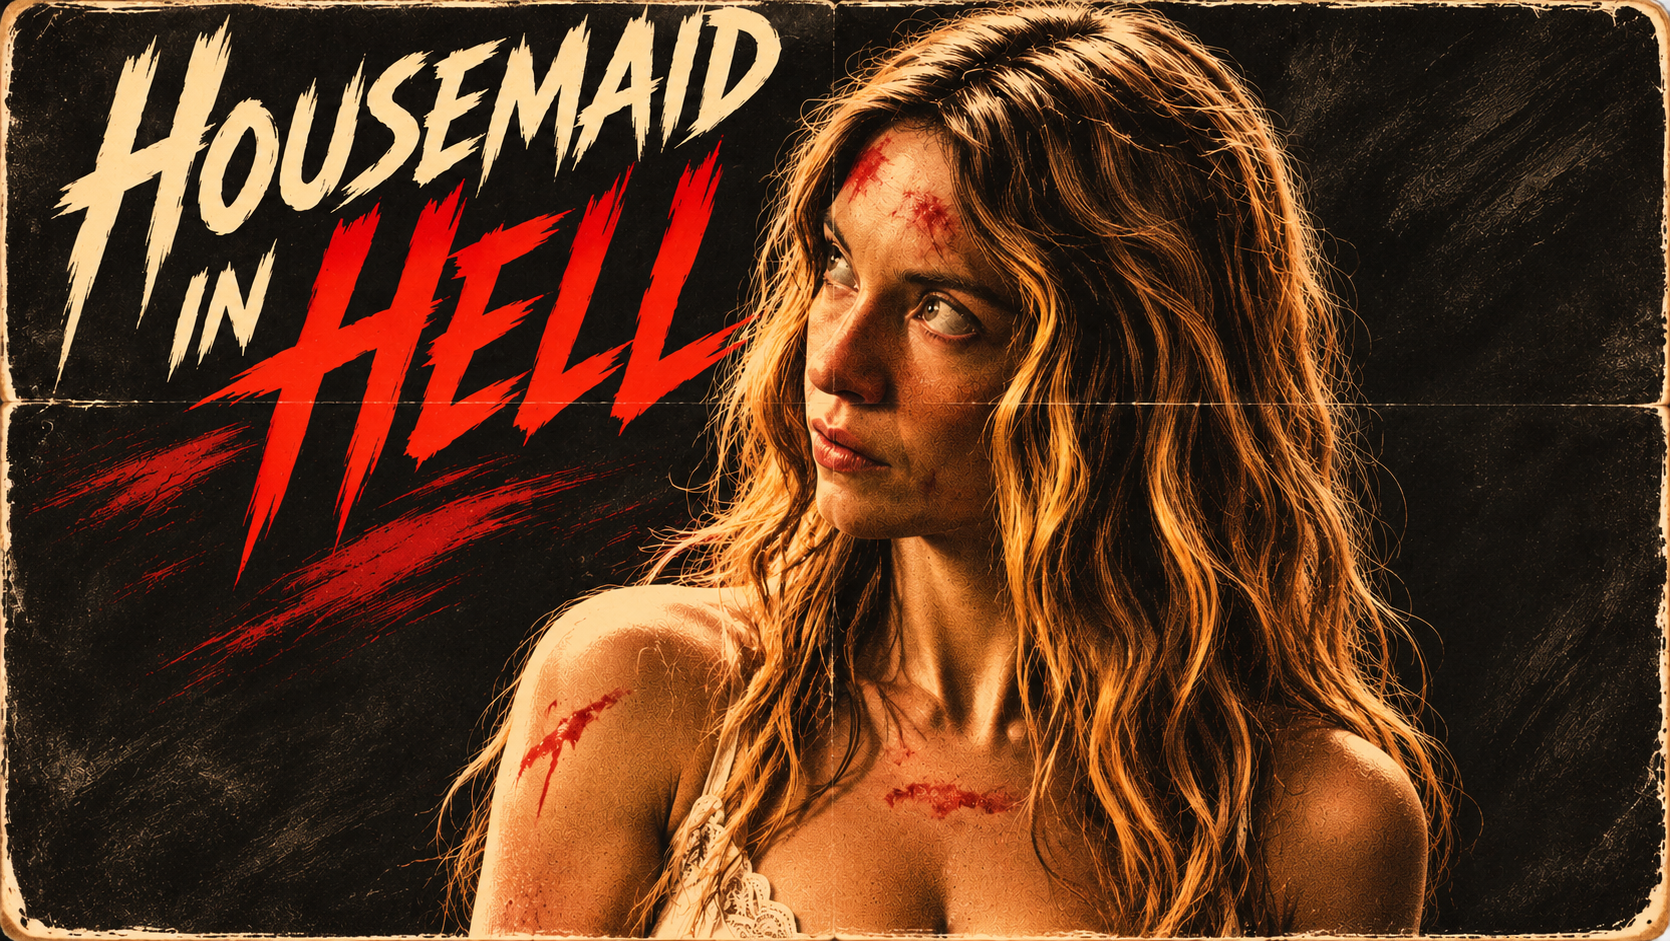
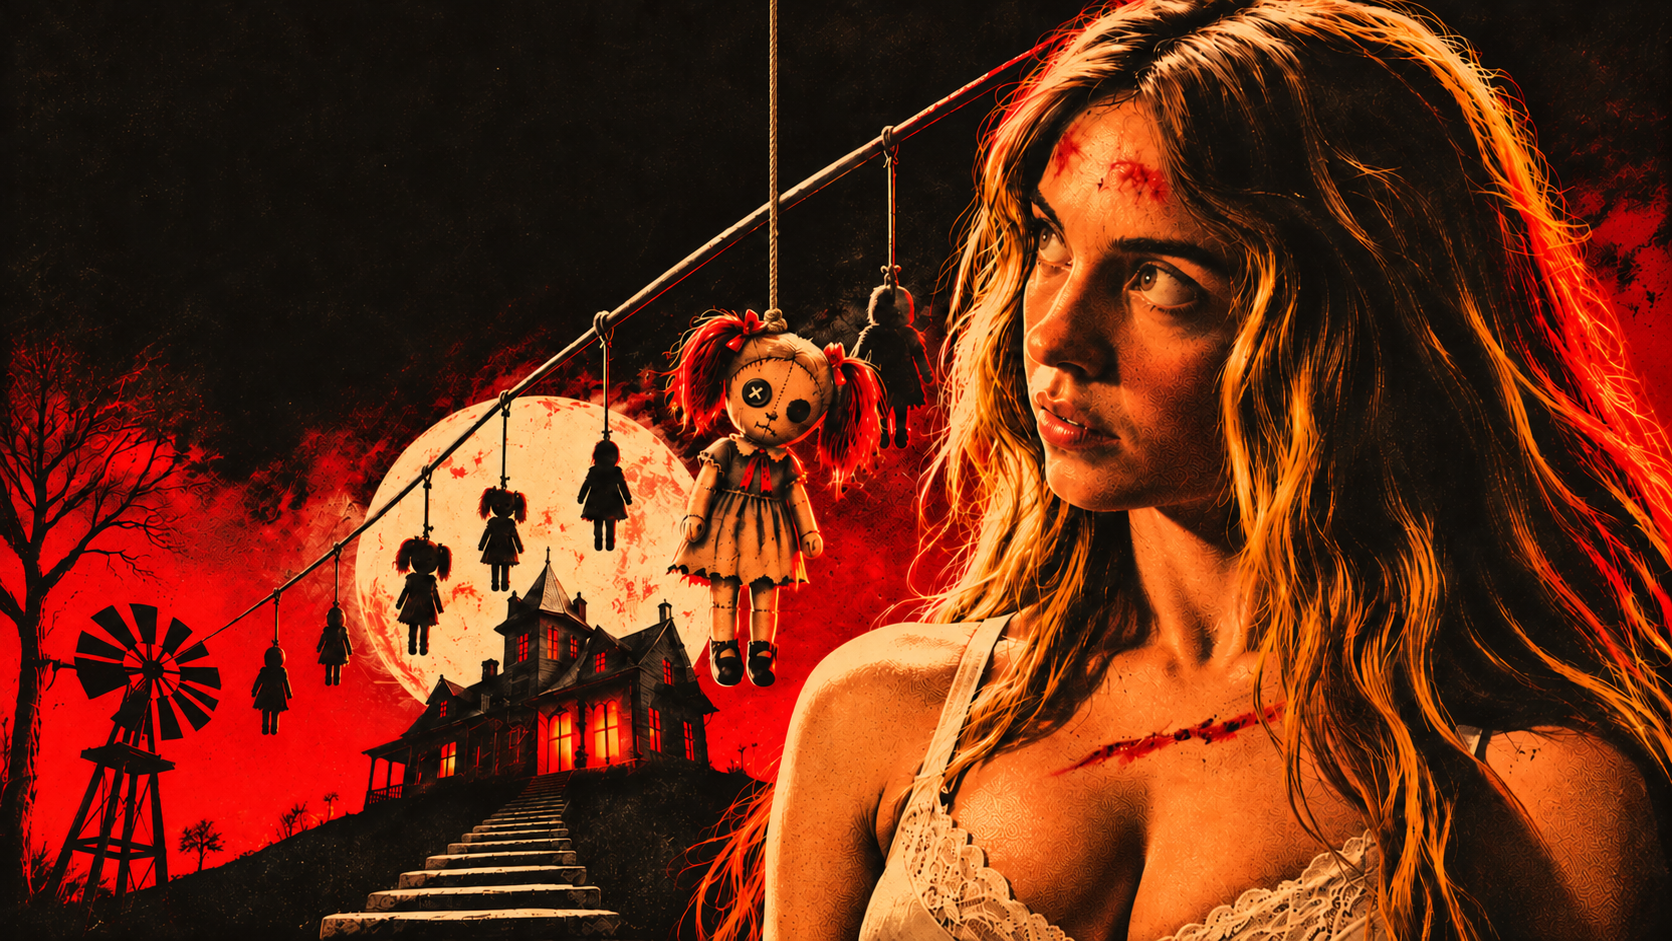
Add files via upload

diff --git a/game.html b/game.html
@@ -4,7 +4,7 @@
   <meta charset="UTF-8" />
   <meta name="viewport" content="width=device-width, initial-scale=1.0, user-scalable=no, viewport-fit=cover" />
   <meta name="color-scheme" content="only light" />
-  <title>Room Word Hunt</title>
+  <title>Housemaid in Hell</title>
   <link rel="preload" as="image" href="./home.png" />
   <style>
     @font-face {
@@ -1044,12 +1044,16 @@
     #menuShell[hidden], .menu-page[hidden] { display: none !important; }
     html.menu-open, html.menu-open body, #menuShell { touch-action: pan-y; }
     #homeBackdrop { position: absolute; inset: 0; overflow: hidden; pointer-events: none; }
+    #homeBackdrop::after { content: ""; position: absolute; inset: 0; background: linear-gradient(180deg, #0005, #000a 33%, #000a 70%, #0005); opacity: 0; transition: opacity 220ms ease; }
     #homePoster { position: absolute; top: 0; left: 0; height: 100%; width: auto; min-width: 100%; object-fit: cover; transform: translate3d(var(--home-pan-x, 0px), 0, 0); }
-    #menuShell[data-page="intro"] #homePoster, #menuShell[data-page="panning"][data-pan-target="intro"] #homePoster { transform: translate3d(0, 0, 0); }
+    #menuShell[data-poster-position="left"] #homePoster { transform: translate3d(0, 0, 0); }
+    #menuShell[data-poster-position="center"] #homePoster { transform: translate3d(calc(var(--home-pan-x, 0px) / 2), 0, 0); }
+    #menuShell[data-poster-position="center"] #homeBackdrop::after { opacity: 1; }
     #menuShell[data-page="panning"] #homePoster { transition: transform var(--home-pan-ms, 650ms) cubic-bezier(.16,.72,.22,1); }
-    #menuShell[data-page="settings"] #homeBackdrop, #menuShell[data-page="story"] #homeBackdrop, #menuShell[data-page="how"] #homeBackdrop { visibility: hidden; }
     .menu-page { width: min(88%, 510px); padding: 72px 12px 36px; text-align: center; z-index: 1; }
-    #introPage { position: absolute; inset: 0; width: 100%; display: flex; justify-content: center; align-items: flex-end; padding: 0 0 max(9%, calc(env(safe-area-inset-bottom) + 12px)); }
+    #introPage { position: absolute; inset: 0; width: 100%; display: flex; flex-direction: column; justify-content: flex-end; align-items: center; padding: 0 5% max(17%, calc(env(safe-area-inset-bottom) + 40px)); }
+    #homeIntroTitle { position: absolute; top: max(12%, calc(env(safe-area-inset-top) + 12px)); left: 9%; right: 9%; margin: 0; max-width: 82%; font-family: "Dudu Calligraphy", "Game Arabic", cursive; font-size: clamp(28px, min(11vw, calc(var(--view-unit) * 7.1)), 68px); font-weight: 400; line-height: 1.05; text-transform: uppercase; text-wrap: balance; text-shadow: 0 1px 3px #000, 0 2px 14px #000; }
+    .intro-title-word { display: inline-block; white-space: nowrap; }
     #homeStartButton { font-size: clamp(30px, calc(var(--view-unit) * 4.4), 44px); }
     /* Keep the menu at its original vertical position after removing the heading. */
     #homePage { padding-top: calc(30px + clamp(44px, calc(var(--view-unit) * 8.3), 84px) * 1.96 + var(--home-menu-gap, 26px)); padding-bottom: 30px; }
@@ -1057,14 +1061,14 @@
     .home-actions, .language-choices { display: flex; flex-direction: column; align-items: center; gap: 9px; }
     .menu-button, .home-back, .paper-button { appearance: none; -webkit-appearance: none; border: 0; background: transparent; color: inherit; -webkit-text-fill-color: currentColor; font: inherit; font-weight: 400; cursor: pointer; animation: readyJitter .4s steps(1, end) infinite; touch-action: manipulation; }
     .menu-button { min-height: 44px; padding: 7px 18px; font-size: clamp(24px, calc(var(--view-unit) * 3.7), 36px); line-height: 1.12; }
-    .home-actions > button, .paper-actions > button { animation-delay: calc(var(--jitter-phase, 0) * var(--menu-jitter-stagger, 75ms)); }
-    .home-actions > :nth-child(2), .paper-actions > :nth-child(2) { --jitter-phase: -1; }
+    .home-actions > button, .language-choices > button, .paper-actions > button { animation-delay: calc(var(--jitter-phase, 0) * var(--menu-jitter-stagger, 75ms)); }
+    .home-actions > :nth-child(2), .language-choices > :nth-child(2), .paper-actions > :nth-child(2) { --jitter-phase: -1; }
     .home-actions > :nth-child(3) { --jitter-phase: -2; }
     .home-actions > :nth-child(4) { --jitter-phase: -3; }
     .home-actions > :nth-child(5) { --jitter-phase: -4; }
     .menu-button:disabled { opacity: .45; cursor: default; }
     .menu-button[aria-pressed="true"] { text-decoration: underline; text-underline-offset: .2em; }
-    .menu-back, .home-back { position: absolute; left: max(14px, env(safe-area-inset-left)); top: max(14px, env(safe-area-inset-top)); width: 50px; height: 50px; padding: 10px; color: var(--letter-beige); z-index: 2; }
+    .menu-back, .home-back { position: absolute; left: max(14px, env(safe-area-inset-left)); top: max(14px, env(safe-area-inset-top)); width: 50px; height: 50px; padding: 10px; color: var(--letter-beige); z-index: 2; animation-duration: .487s; animation-delay: -.055s; }
     .menu-back svg, .home-back svg { display: block; width: 100%; height: 100%; fill: none; stroke: currentColor; stroke-width: 1.8; stroke-linecap: round; stroke-linejoin: round; }
     .menu-body { margin: 0; font-size: clamp(20px, calc(var(--view-unit) * 3.2), 28px); line-height: 1.38; text-align: start; }
     #homeNotice { min-height: 1.4em; margin: 14px 0 0; font-size: 18px; }
@@ -1209,9 +1213,10 @@
         <p id="levelLoadDetails" hidden></p>
       </div>
     </div>
-    <section id="menuShell" aria-label="Housemaid in Hell" data-language="en" data-page="intro">
+    <section id="menuShell" aria-label="Housemaid in Hell" data-language="en" data-page="intro" data-poster-position="left">
       <div id="homeBackdrop" aria-hidden="true"><img id="homePoster" src="./home.png" alt="" draggable="false" fetchpriority="high" /></div>
       <div id="introPage" class="menu-page">
+        <h1 id="homeIntroTitle" dir="auto">Housemaid in Hell</h1>
         <button id="homeStartButton" class="menu-button" type="button">START</button>
       </div>
       <div id="homePage" class="menu-page" hidden>
@@ -1539,7 +1544,7 @@
     "evadeBoundaryTurnMs": 900
   },
   "anomaly": {
-    "enabled": true,
+    "enabled": false,
     "afterWords": 1,
     "riddleAfterWords": 0,
     "checkMs": 15000,
@@ -1660,7 +1665,7 @@
     "hint": "HINT",
     "puzzleTitle": "Riddle",
     "puzzleTitleAr": "لغز",
-    "hunt": "HUNT",
+    "hunt": "CASE",
     "exit": "EXIT",
     "puzzleLevelFormat": "{title} #{number}",
     "prepareMedia": "TAP",
@@ -1859,8 +1864,12 @@
     const portraitFrame = document.getElementById("portraitFrame");
     const menuShell = document.getElementById("menuShell");
     const homePoster = document.getElementById("homePoster");
+    const MENU_ROUTES = { intro: ["home"], home: ["intro", "settings", "story", "how"], settings: ["home"], story: ["home"], how: ["home"] };
+    const MENU_PAGES = Object.keys(MENU_ROUTES);
     let menuPage = "intro";
     let homePanTimer = null;
+    let menuSwipe = null;
+    let suppressMenuClick = false;
     let homeBootPromise = Promise.resolve();
     let homePlayPending = null;
     let menuActionPending = null;
@@ -6578,6 +6587,15 @@
       finally { event.target.value = ""; }
     });
 
+    function configureLoadingLetterJitter(letter, index) {
+      const amount = CONFIG.ui.loadingJitterPx;
+      for (let n = 1; n <= 3; n++) {
+        letter.style.setProperty(`--lx${n}`, `${Math.random() * amount * 2 - amount}px`);
+        letter.style.setProperty(`--ly${n}`, `${Math.random() * amount * 2 - amount}px`);
+      }
+      letter.style.animationDelay = `${index * CONFIG.ui.loadingLetterDelayMs}ms`;
+    }
+
     function configureGamePresentation() {
       const style = document.documentElement.style;
       const cssSettings = {
@@ -6650,14 +6668,9 @@
       }
       batterySlots.forEach((slot, index) => slot.setAttribute("fill", CONFIG.battery.slotColors[Math.min(CONFIG.battery.slotColors.length - 1,
         Math.floor(index / BATTERY_SLOT_COUNT * CONFIG.battery.slotColors.length))]));
-      // Loader jitter has its own settings rather than changing gameplay letters.
-      document.querySelectorAll(".loading-letter").forEach((letter, index) => {
-        for (let n = 1; n <= 3; n++) {
-          letter.style.setProperty(`--lx${n}`, `${Math.random() * CONFIG.ui.loadingJitterPx * 2 - CONFIG.ui.loadingJitterPx}px`);
-          letter.style.setProperty(`--ly${n}`, `${Math.random() * CONFIG.ui.loadingJitterPx * 2 - CONFIG.ui.loadingJitterPx}px`);
-        }
-        letter.style.animationDelay = `${index * CONFIG.ui.loadingLetterDelayMs}ms`;
-      });
+      // Keep independent jitter for the loader and the opening title.
+      document.querySelectorAll("#loadingWord .loading-letter").forEach(configureLoadingLetterJitter);
+      document.querySelectorAll("#homeIntroTitle .loading-letter").forEach(configureLoadingLetterJitter);
       document.fonts?.ready.then(requestViewportLayout);
     }
 
@@ -6680,6 +6693,30 @@
 
     function menuText() { return CONFIG.menu[CONFIG.language.code] || CONFIG.menu.en; }
 
+    function renderHomeIntroTitle(title) {
+      const heading = document.getElementById("homeIntroTitle");
+      if (heading.dataset.title === title) return;
+      heading.dataset.title = title;
+      heading.setAttribute("aria-label", title);
+      const contents = document.createDocumentFragment();
+      let letterIndex = 0;
+      for (const [index, word] of title.trim().split(/\s+/).entries()) {
+        if (index) contents.append(document.createTextNode(" "));
+        const group = document.createElement("span");
+        group.className = "intro-title-word";
+        group.setAttribute("aria-hidden", "true");
+        for (const character of word) {
+          const letter = document.createElement("span");
+          letter.className = "loading-letter";
+          letter.textContent = character;
+          configureLoadingLetterJitter(letter, letterIndex++);
+          group.append(letter);
+        }
+        contents.append(group);
+      }
+      heading.replaceChildren(contents);
+    }
+
     function updateMenuCopy() {
       const text = menuText();
       document.title = CONFIG.menu.title;
@@ -6687,6 +6724,7 @@
       menuShell.dataset.language = CONFIG.language.code;
       menuShell.lang = CONFIG.language.code;
       menuShell.setAttribute("aria-label", CONFIG.menu.title);
+      renderHomeIntroTitle(CONFIG.menu.title);
       const labels = { homeStartButton: text.start, homePlayButton: text.play, homeSettingsButton: text.settings, homeStoryButton: text.story,
         homeHowButton: text.how, homeClearButton: text.clear, settingsTitle: text.settings,
         storyTitle: text.story, howTitle: text.how, storyCopy: text.storyText, howCopy: text.howText,
@@ -6712,15 +6750,17 @@
     }
 
     function showMenuPage(page = "home", focus = false) {
-      const pages = ["intro", "home", "settings", "story", "how"];
-      if (page !== "panning" && !pages.includes(page)) page = "home";
+      if (page !== "panning" && !MENU_PAGES.includes(page)) page = "home";
+      menuSwipe = null;
       menuPage = page;
       document.documentElement.classList.add("menu-open");
       menuShell.hidden = false;
       menuShell.dataset.page = page;
+      const destination = page === "panning" ? menuShell.dataset.panTarget : page;
+      menuShell.dataset.posterPosition = destination === "intro" ? "left" : destination === "home" ? "right" : "center";
       viewport.inert = true;
       viewport.setAttribute("aria-hidden", "true");
-      for (const name of pages) document.getElementById(`${name}Page`).hidden = name !== page;
+      for (const name of MENU_PAGES) document.getElementById(`${name}Page`).hidden = name !== page;
       if (page !== "home") document.getElementById("homeNotice").textContent = "";
       menuShell.scrollTop = 0;
       syncHomePoster();
@@ -6744,9 +6784,8 @@
     }
 
     function panHomeTo(target) {
-      const back = target === "intro";
-      if (menuPage !== (back ? "home" : "intro") || homePlayPending || menuActionPending) return;
-      const shift = syncHomePoster(), duration = back ? Math.min(350, CONFIG.menu.panMs) : CONFIG.menu.panMs;
+      if (!MENU_ROUTES[menuPage]?.includes(target) || homePlayPending || menuActionPending) return;
+      const shift = syncHomePoster(), duration = CONFIG.menu.panMs;
       if (!shift || !duration || window.matchMedia?.("(prefers-reduced-motion: reduce)").matches) {
         showMenuPage(target, true);
         return;
@@ -6758,7 +6797,34 @@
       homePanTimer = window.setTimeout(finishHomePan, duration + 80);
     }
 
+    function startMenuSwipe(event) {
+      if (!event.isPrimary || event.button !== 0) return;
+      suppressMenuClick = false;
+      menuSwipe = null;
+      if (!MENU_ROUTES[menuPage] || homePlayPending || menuActionPending) return;
+      menuSwipe = { id: event.pointerId, page: menuPage, x: event.clientX, y: event.clientY };
+    }
+
+    function finishMenuSwipe(event) {
+      const swipe = menuSwipe;
+      if (!swipe || swipe.id !== event.pointerId) return;
+      menuSwipe = null;
+      if (event.type === "pointercancel" || menuPage !== swipe.page) return;
+      const dx = event.clientX - swipe.x, dy = event.clientY - swipe.y;
+      const threshold = Math.max(42, Math.min(80, menuShell.clientWidth * .12));
+      if (Math.abs(dx) < threshold || Math.abs(dx) < Math.abs(dy) * 1.35) return;
+      // A horizontal swipe starting on a button must not also activate it.
+      suppressMenuClick = true;
+      event.preventDefault();
+      if (swipe.page === "home") {
+        if (dx > 0) panHomeTo("intro");
+      } else if (dx < 0) {
+        panHomeTo("home");
+      }
+    }
+
     function hideMenuForLoading() {
+      menuSwipe = null;
       menuPage = null;
       document.documentElement.classList.remove("menu-open");
       menuShell.hidden = true;
@@ -6952,7 +7018,7 @@
     function handleMenuKeys(event) {
       if (event.key !== "Escape" || event.defaultPrevented || event.isComposing) return;
       if (exitConfirmationActive) { event.preventDefault(); event.stopImmediatePropagation(); stayInLevel(); }
-      else if (["settings", "story", "how"].includes(menuPage)) { event.preventDefault(); event.stopImmediatePropagation(); showMenuPage("home", true); }
+      else if (["settings", "story", "how"].includes(menuPage)) { event.preventDefault(); event.stopImmediatePropagation(); panHomeTo("home"); }
       else if (menuPage === null && gameplayStarted && !keyboardAction("Escape")) { event.preventDefault(); event.stopImmediatePropagation(); openExitConfirmation(); }
     }
 
@@ -6961,14 +7027,23 @@
     homePoster.addEventListener("transitionend", event => {
       if (event.propertyName === "transform" || event.propertyName === "-webkit-transform") finishHomePan();
     });
+    menuShell.addEventListener("pointerdown", startMenuSwipe);
+    window.addEventListener("pointerup", finishMenuSwipe, true);
+    window.addEventListener("pointercancel", finishMenuSwipe, true);
+    menuShell.addEventListener("click", event => {
+      if (!suppressMenuClick || event.detail === 0) return;
+      suppressMenuClick = false;
+      event.preventDefault();
+      event.stopImmediatePropagation();
+    }, true);
     document.getElementById("homeStartButton").addEventListener("click", () => panHomeTo("home"));
     document.getElementById("homeBackButton").addEventListener("click", () => panHomeTo("intro"));
     document.getElementById("homePlayButton").addEventListener("click", beginHomePlay);
-    document.getElementById("homeSettingsButton").addEventListener("click", () => showMenuPage("settings", true));
-    document.getElementById("homeStoryButton").addEventListener("click", () => showMenuPage("story", true));
-    document.getElementById("homeHowButton").addEventListener("click", () => showMenuPage("how", true));
+    document.getElementById("homeSettingsButton").addEventListener("click", () => panHomeTo("settings"));
+    document.getElementById("homeStoryButton").addEventListener("click", () => panHomeTo("story"));
+    document.getElementById("homeHowButton").addEventListener("click", () => panHomeTo("how"));
     document.getElementById("homeClearButton").addEventListener("click", clearDataFromHome);
-    menuShell.querySelectorAll(".menu-back:not(#homeBackButton)").forEach(button => button.addEventListener("click", () => showMenuPage("home", true)));
+    menuShell.querySelectorAll(".menu-back:not(#homeBackButton)").forEach(button => button.addEventListener("click", () => panHomeTo("home")));
     menuShell.querySelectorAll("[data-language]").forEach(button => button.addEventListener("click", () => selectMenuLanguage(button.dataset.language)));
     document.getElementById("exitStayButton").addEventListener("click", stayInLevel);
     document.getElementById("exitLeaveButton").addEventListener("click", returnToHome);
